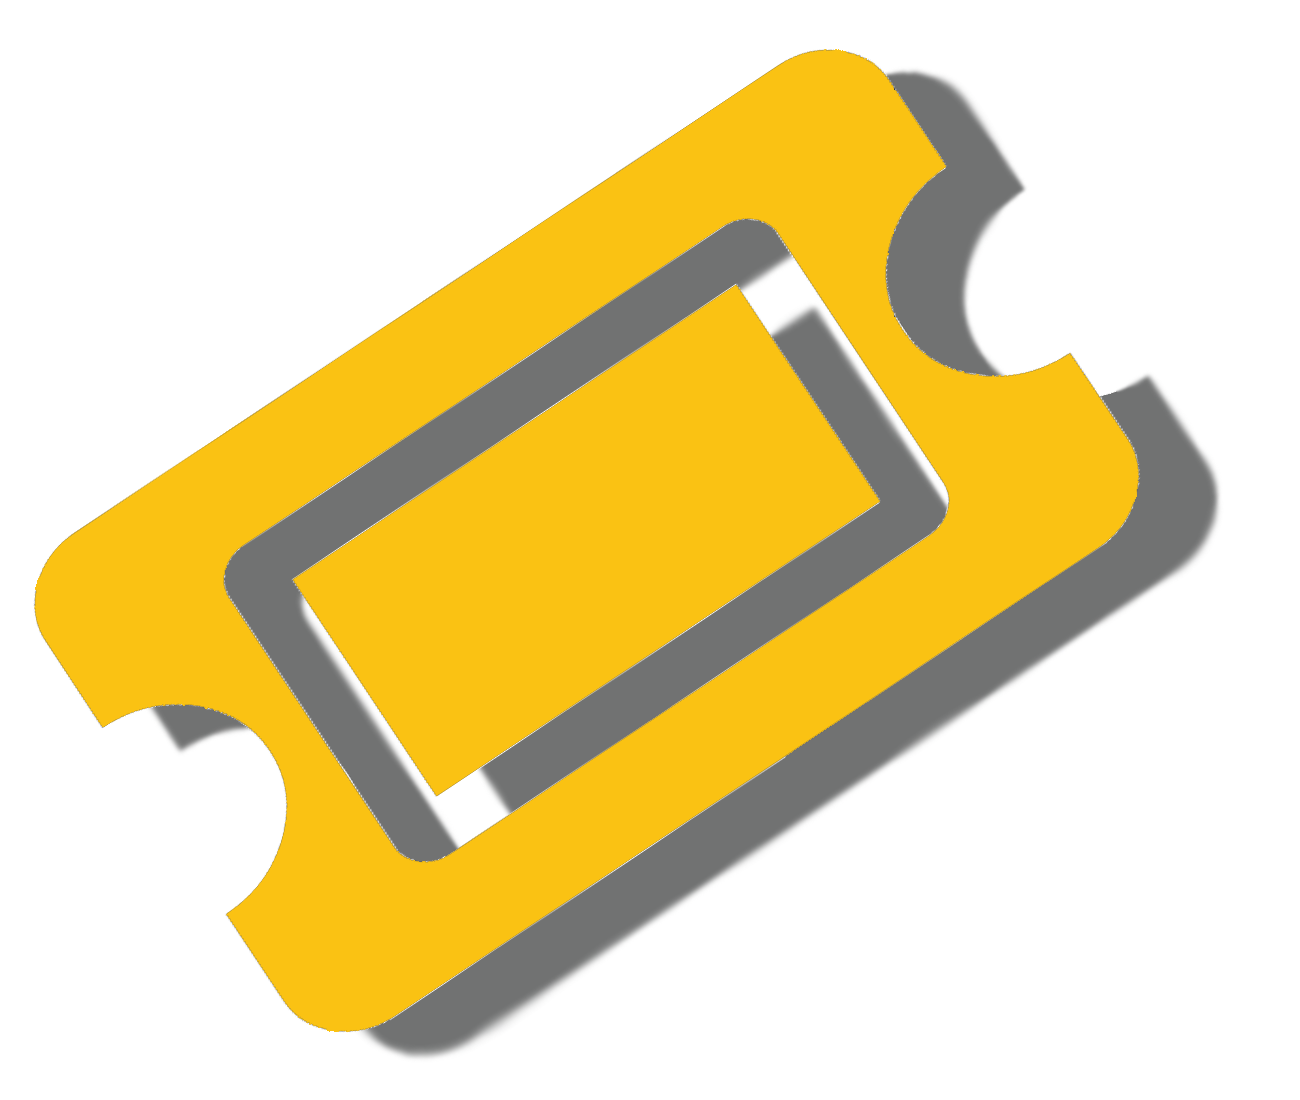
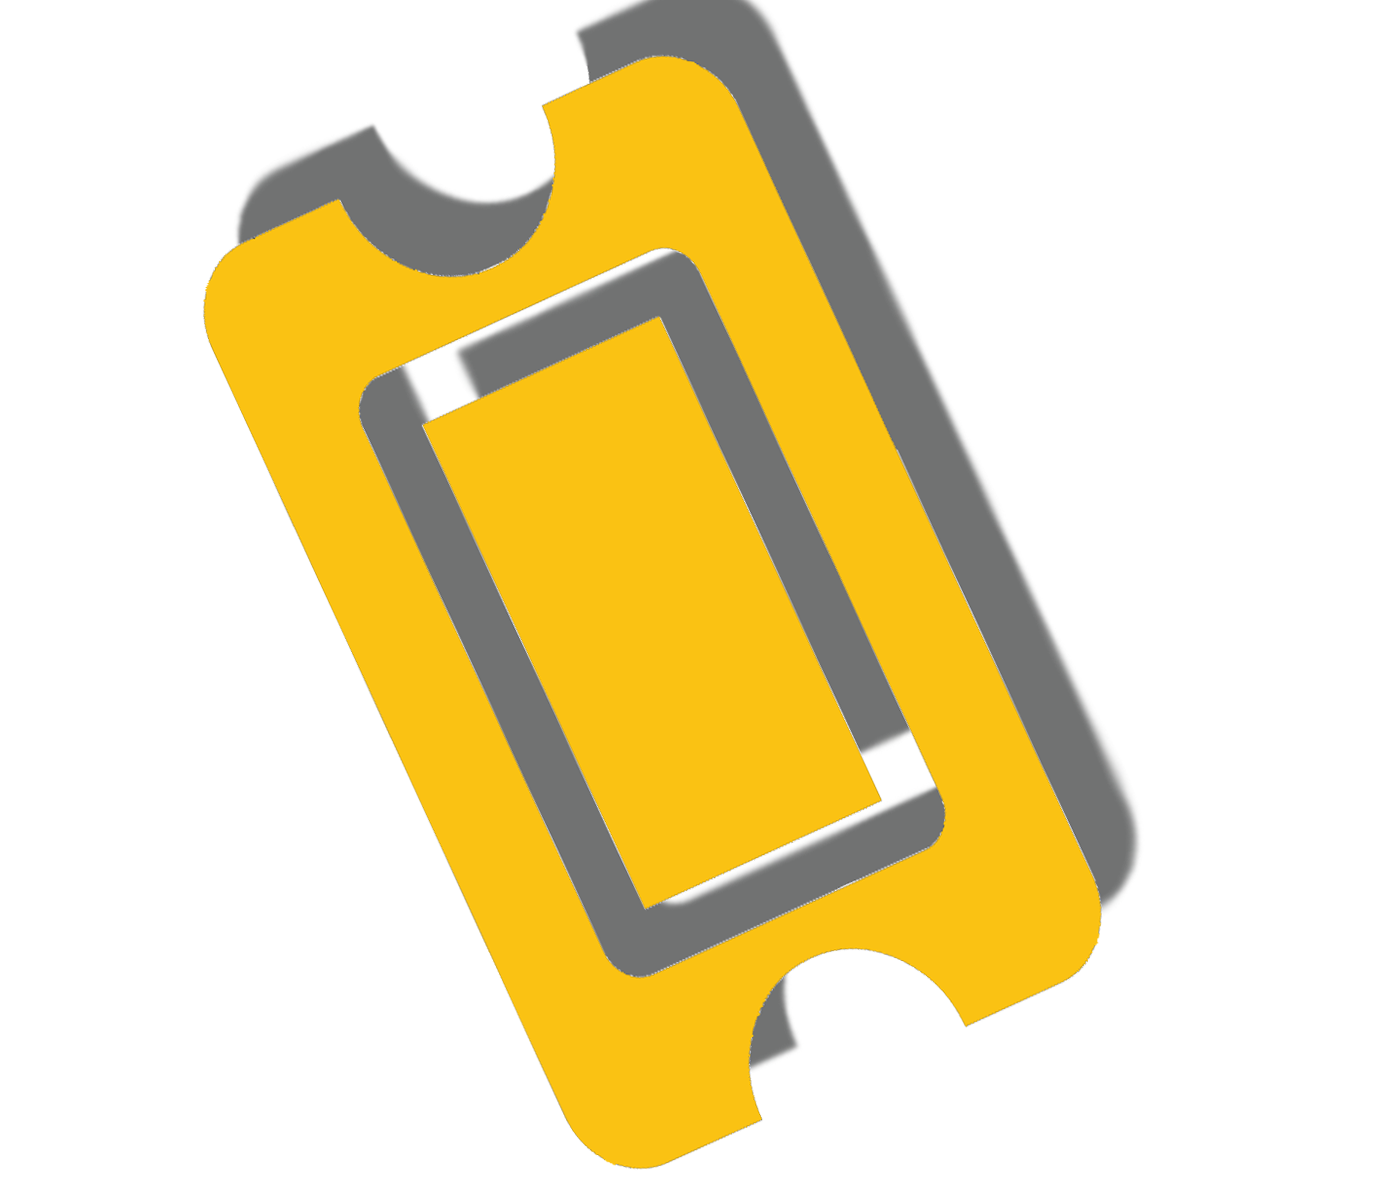
Updated UI

diff --git a/mainwindow.cpp b/mainwindow.cpp
@@ -11,19 +11,8 @@ MainWindow::MainWindow(QWidget *parent)
     ui->setupUi(this);
     QPixmap pix(":/img/img/Ticket.png");
     ui->LabelTicket->setPixmap(pix);
-    ui->LabelTicket->setPixmap(pix.scaled(140, 140,Qt::KeepAspectRatio));
+    ui->LabelTicket->setPixmap(pix.scaled(50, 37,Qt::KeepAspectRatio));
 
-    QPixmap background(":/img/img/confetti-png.png");
-    ui->LandingBackground->setPixmap(background);
-    ui->LandingBackground->setPixmap(background.scaled(1300, 600,Qt::KeepAspectRatio));
-
-    QPainter painter(this);
-    painter.setOpacity(0.2);
-    // use scaled image or if needed not scaled m_avatar
-    painter.drawPixmap(0, 0, background);
-
-    //Z-order
-    ui->LandingBackground->lower();
 }
 
 MainWindow::~MainWindow()
